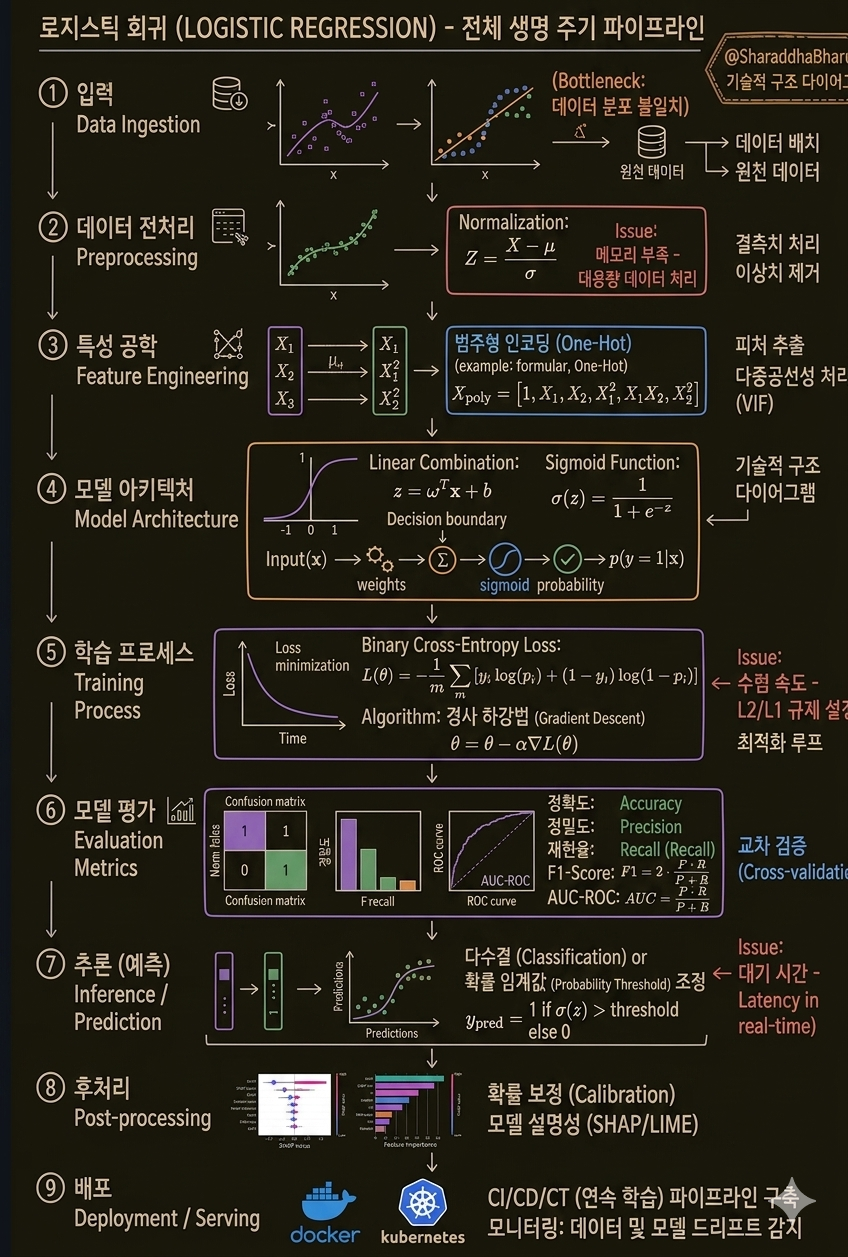
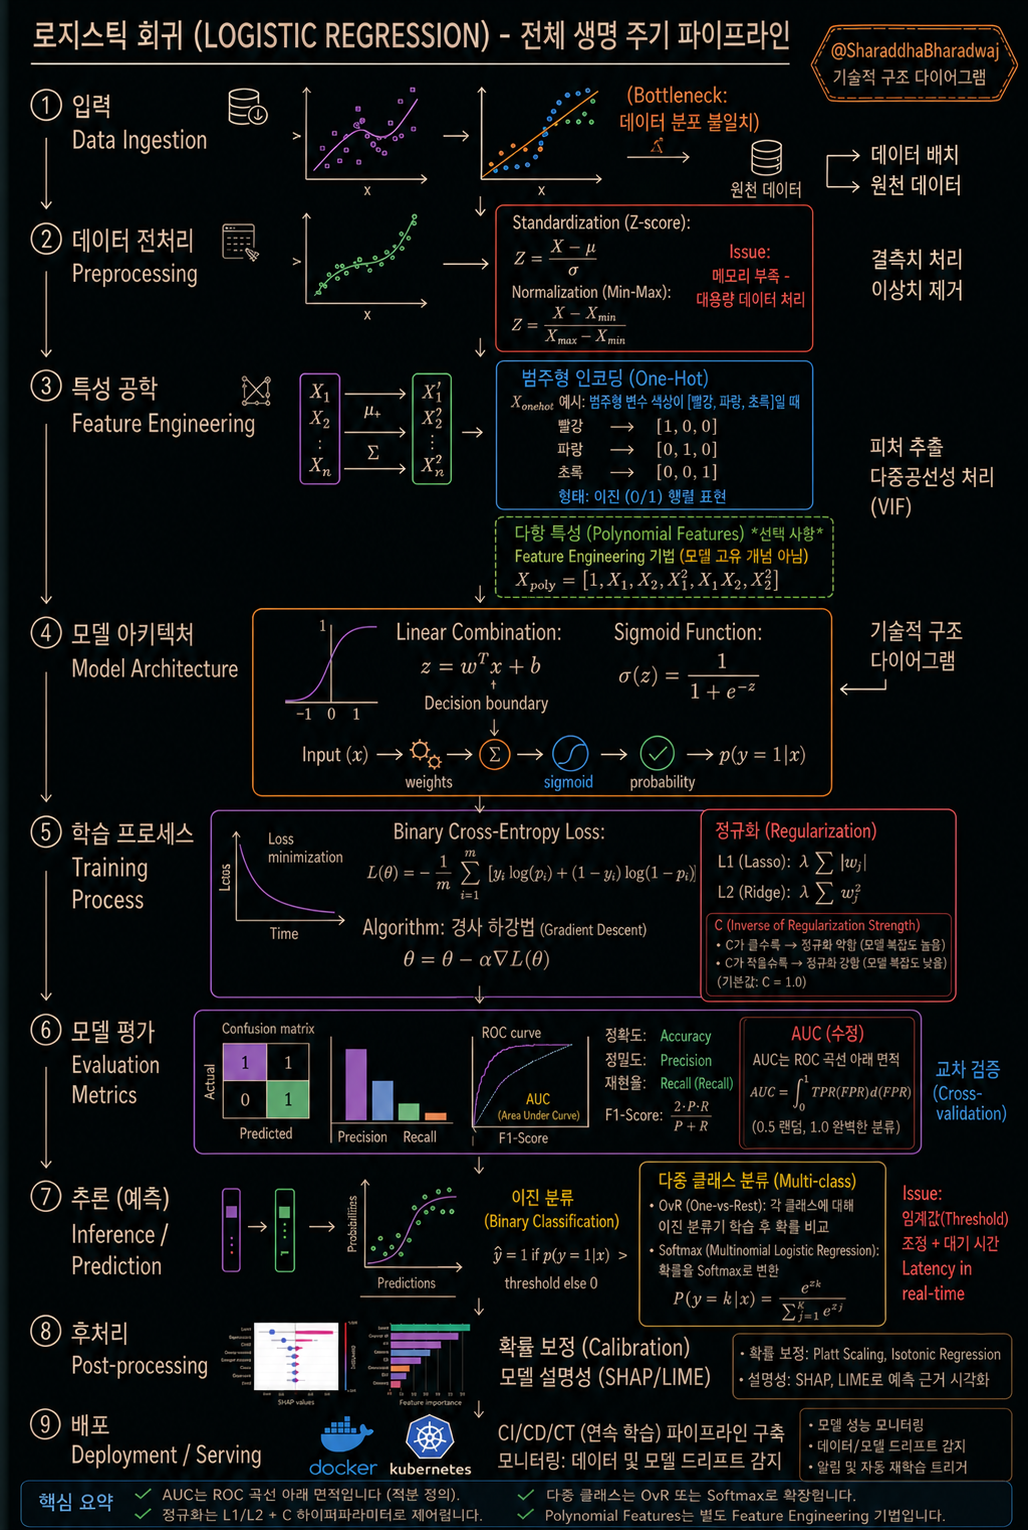
ML Decision Tree Update

diff --git a/_posts/ML/2026-05-24-ML-LogisticRegression.md b/_posts/ML/2026-05-24-ML-LogisticRegression.md
@@ -158,10 +158,10 @@ plt.rcParams['font.family'] = 'AppleGothic'
 
 ```python
 titanic = pd.read_csv('./Data/Titanic.csv')
+titanic
 ```
 
 ### II. Preprocessing
-
 #### II-I. Feature Engineering
 
 ```python